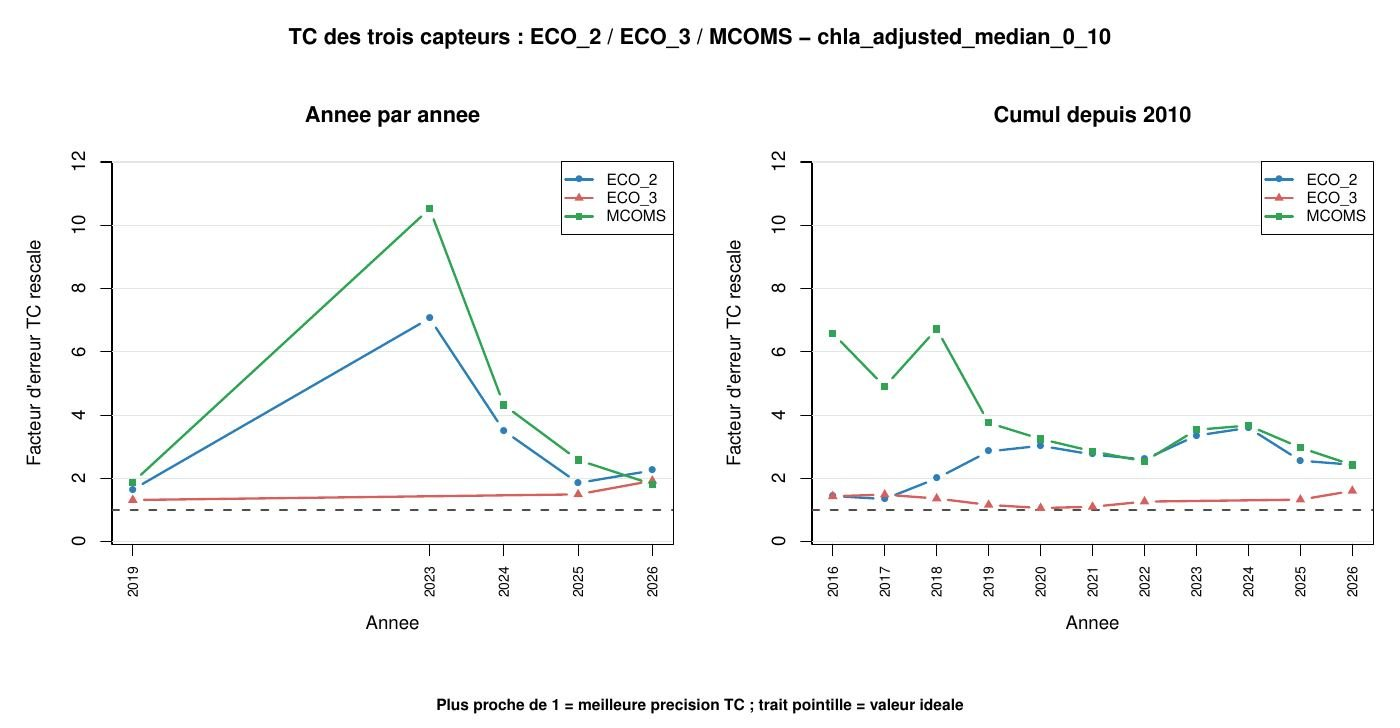
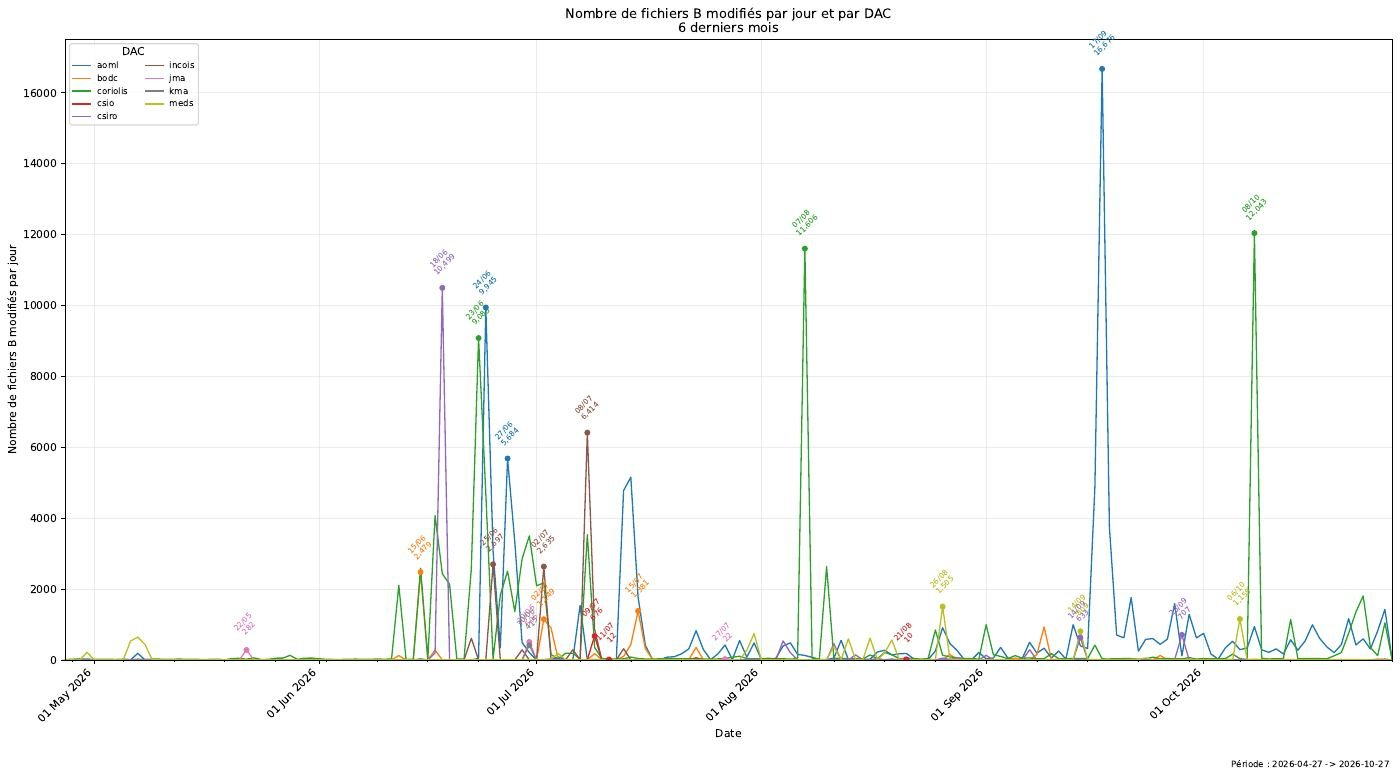
Sépare les trois études de Métrique V2 dans la page des projets
Suivi de la base, CHLA face à OC5 et BBP700 face à SOCA ont maintenant
chacune leur section, avec leurs figures du 27 octobre, leurs chiffres
et un graphique tiré de la synthèse du fichier métrique : profils par
famille de capteur CHLA et profils BBP700 par mode de données.

Claude-Session: https://claude.ai/code/session_01E8CWNMVsvwy1KFHLaAn6PK

diff --git a/projets/index.html b/projets/index.html
@@ -226,7 +226,7 @@ dialog#visio::backdrop { background: rgba(8, 18, 18, 0.72); }
 <header class="tete">
   <p class="surtitre">VM oao2022 · Mac · GitHub antoine250</p>
   <h1>Projets BGC-Argo</h1>
-  <p class="chapo">Neuf études sur les capteurs bio-optiques des flotteurs BGC-Argo et du profileur CIDRE : chlorophylle, rétrodiffusion à 700 nm, lumière. <strong>1&#8239;189 pages de graphiques</strong> en tout ; chaque projet montre ses figures principales et renvoie vers sa page complète. État au 27 octobre 2026.</p>
+  <p class="chapo">Onze études sur les capteurs bio-optiques des flotteurs BGC-Argo et du profileur CIDRE : chlorophylle, rétrodiffusion à 700 nm, lumière. <strong>1&#8239;189 pages de graphiques</strong> en tout ; chaque projet montre ses figures principales et renvoie vers sa page complète. État au 27 octobre 2026.</p>
 </header>
 
 <section aria-labelledby="titre-etat">
@@ -244,9 +244,19 @@ dialog#visio::backdrop { background: rgba(8, 18, 18, 0.72); }
       <div class="l-meta"><span>VM</span><span class="nb">22 graphiques</span><span>21 oct. 2026</span></div>
     </li>
     <li class="ligne">
-      <div class="l-titre"><a href="#metrique">Étude métrique V2</a><span class="mesure">Suivi de la base, CHLA et BBP700 par capteur</span></div>
+      <div class="l-titre"><a href="#metrique">Étude métrique V2</a><span class="mesure">Fichier métrique quotidien et suivi de la base</span></div>
       <span class="etat ok">Actif</span>
-      <div class="l-meta"><span>VM · GitHub</span><span class="nb">509 pages</span><span>27 oct. 2026</span></div>
+      <div class="l-meta"><span>VM · GitHub</span><span class="nb">62 pages</span><span>27 oct. 2026</span></div>
+    </li>
+    <li class="ligne">
+      <div class="l-titre"><a href="#metrique-chla">CHLA face à OC5</a><span class="mesure">Métrique V2 · ECO_2, ECO_3 et MCOMS contre le satellite</span></div>
+      <span class="etat nouveau">Nouveau</span>
+      <div class="l-meta"><span>VM</span><span class="nb">154 pages</span><span>27 oct. 2026</span></div>
+    </li>
+    <li class="ligne">
+      <div class="l-titre"><a href="#metrique-bbp">BBP700 face à SOCA</a><span class="mesure">Métrique V2 · FLBB, triplets et MCOMS contre la climatologie</span></div>
+      <span class="etat nouveau">Nouveau</span>
+      <div class="l-meta"><span>VM</span><span class="nb">293 pages</span><span>27 oct. 2026</span></div>
     </li>
     <li class="ligne">
       <div class="l-titre"><a href="#oc5">CHLA / OC5 jour – nuit</a><span class="mesure">Flotteur contre satellite</span></div>
@@ -283,7 +293,7 @@ dialog#visio::backdrop { background: rgba(8, 18, 18, 0.72); }
   </ul>
   <p class="legende-etat">
     <span class="etat ok">Actif : session Claude ouverte sur la VM</span>
-    <span class="etat nouveau">Nouveau : apparu depuis la mise à jour précédente</span>
+    <span class="etat nouveau">Nouveau : ajouté à la page cette semaine</span>
     <span class="etat archive">Archivé : session terminée</span>
     <span>Date : dernière mise à jour des graphiques</span>
   </p>
@@ -291,7 +301,7 @@ dialog#visio::backdrop { background: rgba(8, 18, 18, 0.72); }
 
 <section class="groupe" aria-labelledby="g-vm">
   <h2 id="g-vm">Sur la VM oao2022</h2>
-  <p>Six projets sur le serveur, chacun avec ses pages de graphiques.</p>
+  <p>Huit projets sur le serveur, chacun avec ses pages de graphiques. Trois d'entre eux lisent le fichier métrique V2 produit chaque nuit.</p>
 
   <article class="projet" id="chla435" data-galerie="https://claude.ai/artifact/VeyUFmpXRrTi1sqrMFvcbu">
     <div class="p-texte">
@@ -362,44 +372,116 @@ dialog#visio::backdrop { background: rgba(8, 18, 18, 0.72); }
     </div>
   </article>
 
-  <article class="projet" id="metrique" data-galerie="https://claude.ai/artifact/CQou6hnrZ72suKwQXZ53zz">
+  <article class="projet" id="metrique" data-galerie="https://claude.ai/artifact/Fh22XT616xihE1MCWTW6Rv">
     <div class="p-texte">
       <p class="p-tags"><span class="etat ok">Actif</span><span class="ou">VM oao2022 · GitHub</span></p>
-      <h3>Étude métrique V2<span class="mesure">Le fichier métrique quotidien et les trois études qui le lisent</span></h3>
-      <p class="p-desc">Chaque nuit, l'étude produit un fichier de métriques sur tous les profils BGC-Argo (<code>/data3/ETUDE_METRIQUE_V2</code>). Depuis le 26 octobre, trois études le lisent, chacune avec sa page de graphiques : le suivi quotidien de la base (fichiers B modifiés par DAC, évolution des paramètres, CHLA intégrée 0-150 m) ; la CHLA des ECO_2, ECO_3 et MCOMS face au satellite OC5, avec triple collocation ; le BBP700 des FLBB, triplets et MCOMS face à la climatologie SOCA, en surface et à 900-950 m.</p>
+      <h3>Étude métrique V2<span class="mesure">Le fichier métrique quotidien et le suivi de la base</span></h3>
+      <p class="p-desc">Chaque nuit, l'étude produit un fichier de métriques sur tous les profils BGC-Argo (<code>/data3/ETUDE_METRIQUE_V2</code>) : CHLA, fluorescence, BBP700 et matchups satellite. Le suivi de la base le lit pour montrer les fichiers B modifiés par DAC, l'évolution de chaque paramètre jour après jour et la CHLA intégrée 0-150 m. Deux autres études le lisent aussi : CHLA face à OC5 et BBP700 face à SOCA, juste en dessous.</p>
       <dl class="chiffres">
         <div><dt>Profils, fichier du 27 oct.</dt><dd>191&#8239;768</dd></div>
         <div><dt>Flotteurs</dt><dd>1&#8239;522</dd></div>
-        <div><dt>Profils avec une CHLA OC5</dt><dd>159&#8239;589</dd></div>
-        <div><dt>Graphiques</dt><dd>26 <small>509 pages</small></dd></div>
+        <div><dt>Fichiers quotidiens</dt><dd>136</dd></div>
+        <div><dt>Nouveaux profils le 27 oct.</dt><dd>83</dd></div>
       </dl>
       <div class="graphe" id="g-metrique">
         <h4>Profils dans le fichier métrique quotidien</h4>
         <p class="sous">136 fichiers, du 28 mai au 27 octobre 2026 ; les segments droits couvrent les jours sans fichier.</p>
         <div class="dessin"></div>
       </div>
-      <p class="p-note">Le 27 octobre, le nombre de profils avec une CHLA OC5 est passé de 143&#8239;500 à 159&#8239;589.</p>
       <div class="liens">
-        <a class="bouton principal" href="https://claude.ai/artifact/5mcDQY8bPgqWs46afYyF8H" target="_blank" rel="noopener">Synthèse du fichier</a>
-        <a class="bouton" href="https://claude.ai/artifact/Fh22XT616xihE1MCWTW6Rv" target="_blank" rel="noopener">Suivi de la base · 62 p.</a>
-        <a class="bouton" href="https://claude.ai/artifact/PJrDCLZt8fciG6NTXHJxTx" target="_blank" rel="noopener">CHLA / OC5 · 154 p.</a>
-        <a class="bouton" href="https://claude.ai/artifact/QRzdbm9R412nJHgWJRAEhP" target="_blank" rel="noopener">BBP700 / SOCA · 293 p.</a>
+        <a class="bouton principal" href="https://claude.ai/artifact/Fh22XT616xihE1MCWTW6Rv" target="_blank" rel="noopener">Suivi de la base · 62 p.</a>
+        <a class="bouton" href="https://claude.ai/artifact/5mcDQY8bPgqWs46afYyF8H" target="_blank" rel="noopener">Synthèse du fichier</a>
+        <a class="bouton" href="https://claude.ai/artifact/CQou6hnrZ72suKwQXZ53zz" target="_blank" rel="noopener">Accueil des graphiques</a>
         <a class="bouton" href="https://github.com/antoine250/ETUDE_METRIQUE_V2" target="_blank" rel="noopener">Dépôt GitHub</a>
       </div>
     </div>
     <div class="p-figures">
       <figure>
-        <button class="vignette" type="button" data-note="Facteur d'erreur de chaque capteur (ECO_2, ECO_3, MCOMS), année par année et en cumulé. Plus proche de 1 : meilleure précision ; pointillé : valeur idéale. CSV du 27 octobre 2026."><img src="img/metrique-1.jpg" width="1400" height="728" alt="Triple collocation des trois capteurs de chlorophylle" loading="lazy"></button>
+        <button class="vignette" type="button" data-note="Nombre de fichiers B modifiés par jour et par DAC, sur les 6 mois jusqu'au 27 octobre 2026."><img src="img/metrique-1.jpg" width="1400" height="778" alt="Nombre de fichiers B modifiés par jour et par DAC" loading="lazy"></button>
+        <figcaption><strong>Fichiers B modifiés par jour et par DAC</strong> · 6 mois</figcaption>
+      </figure>
+      <div class="petites">
+        <figure>
+          <button class="vignette" type="button" data-note="Pour chaque paramètre du fichier métrique, variation de la médiane d'un jour à l'autre, du 28 mai au 27 octobre 2026. Bleu : baisse, rouge : hausse ; gris : pas de fichier ce jour-là."><img src="img/metrique-2.jpg" width="1400" height="993" alt="Carte de couleurs de la variation jour par jour de chaque paramètre" loading="lazy"></button>
+          <figcaption>Variation jour par jour des paramètres</figcaption>
+        </figure>
+        <figure>
+          <button class="vignette" type="button" data-note="CHLA (fluorescence) intégrée 0-150 m depuis le 1er juin 2026 : médiane, moyenne et écart entre quartiles, fichier par fichier."><img src="img/metrique-3.jpg" width="1400" height="993" alt="Série temporelle de la CHLA intégrée 0-150 m" loading="lazy"></button>
+          <figcaption>CHLA intégrée 0-150 m depuis juin</figcaption>
+        </figure>
+      </div>
+    </div>
+  </article>
+
+  <article class="projet" id="metrique-chla" data-galerie="https://claude.ai/artifact/PJrDCLZt8fciG6NTXHJxTx">
+    <div class="p-texte">
+      <p class="p-tags"><span class="etat nouveau">Nouveau</span><span class="ou">VM oao2022 · ETUDE_CHLA_OC5</span></p>
+      <h3>CHLA face à OC5<span class="mesure">Étude métrique V2 : les trois familles de capteurs face au satellite</span></h3>
+      <p class="p-desc">Compare la CHLA des ECO_2, ECO_3 et MCOMS à la chlorophylle satellite OC5 : boîtes de 10° × 10° communes aux trois capteurs, deux fichiers (1er juin et 27 octobre) sur les mêmes échelles, CHLA de surface, et triple collocation pour estimer l'erreur de chaque capteur, année par année et en cumulé.</p>
+      <dl class="chiffres">
+        <div><dt>Profils avec une CHLA OC5</dt><dd>159&#8239;589</dd></div>
+        <div><dt>Matchups de surface</dt><dd>117&#8239;597</dd></div>
+        <div><dt>Graphiques</dt><dd>7 <small>154 pages</small></dd></div>
+        <div><dt>Données</dt><dd>27 oct. <small>2026</small></dd></div>
+      </dl>
+      <div class="graphe" id="g-metrique-chla">
+        <h4>Profils par famille de capteur CHLA</h4>
+        <p class="sous">Fichier métrique du 27 octobre 2026, d'après le modèle de capteur de chaque profil.</p>
+        <div class="dessin"></div>
+      </div>
+      <p class="p-note">Le 27 octobre, le nombre de profils avec une CHLA OC5 est passé de 143&#8239;500 à 159&#8239;589.</p>
+      <div class="liens"><a class="bouton principal" href="https://claude.ai/artifact/PJrDCLZt8fciG6NTXHJxTx" target="_blank" rel="noopener">Ouvrir les 154 pages</a></div>
+    </div>
+    <div class="p-figures">
+      <figure>
+        <button class="vignette" type="button" data-note="Facteur d'erreur de chaque capteur (ECO_2, ECO_3, MCOMS), année par année et en cumulé. Plus proche de 1 : meilleure précision ; pointillé : valeur idéale. CSV du 27 octobre 2026."><img src="img/chlaoc5-1.jpg" width="1400" height="728" alt="Triple collocation des trois capteurs de chlorophylle" loading="lazy"></button>
         <figcaption><strong>Triple collocation ECO_2 / ECO_3 / MCOMS</strong></figcaption>
       </figure>
       <div class="petites">
         <figure>
-          <button class="vignette" type="button" data-note="Nombre de fichiers B modifiés par jour et par DAC, sur les 6 mois jusqu'au 27 octobre 2026."><img src="img/metrique-2.jpg" width="1400" height="778" alt="Nombre de fichiers B modifiés par jour et par DAC" loading="lazy"></button>
-          <figcaption>Fichiers B modifiés par DAC</figcaption>
+          <button class="vignette" type="button" data-note="CHLA ajustée médiane 0-10 m du flotteur contre la CHLA OC5, tous capteurs : 117&#8239;597 matchups. Tirets : égalité 1:1, échelles logarithmiques."><img src="img/chlaoc5-2.jpg" width="1400" height="1082" alt="Nuage de points CHLA de surface contre OC5" loading="lazy"></button>
+          <figcaption>CHLA de surface contre OC5</figcaption>
         </figure>
         <figure>
-          <button class="vignette" type="button" data-note="Localisation des matchups BBP700 médiane 900-950 m, dans les zones et périodes communes aux FLBB, triplets et MCOMS. CSV du 27 octobre 2026."><img src="img/metrique-3.jpg" width="1400" height="850" alt="Carte des matchups BBP700 entre 900 et 950 m" loading="lazy"></button>
-          <figcaption>Matchups BBP700 à 900-950 m</figcaption>
+          <button class="vignette" type="button" data-note="Distribution de la CHLA et du rapport CHLA / OC5 pour chaque famille de capteur, dans les zones communes aux trois. Ligne pointillée : rapport égal à 1."><img src="img/chlaoc5-3.jpg" width="1400" height="850" alt="Histogrammes de la CHLA et du rapport CHLA sur OC5 par capteur" loading="lazy"></button>
+          <figcaption>Histogrammes par capteur</figcaption>
+        </figure>
+      </div>
+    </div>
+  </article>
+
+  <article class="projet" id="metrique-bbp" data-galerie="https://claude.ai/artifact/QRzdbm9R412nJHgWJRAEhP">
+    <div class="p-texte">
+      <p class="p-tags"><span class="etat nouveau">Nouveau</span><span class="ou">VM oao2022 · ETUDE_BBP700_SOCA</span></p>
+      <h3>BBP700 face à SOCA<span class="mesure">Étude métrique V2 : les trois familles de capteurs face à la climatologie</span></h3>
+      <p class="p-desc">Compare le BBP700 des FLBB, triplets et MCOMS à la climatologie SOCA, boîte par boîte, en surface (0-10 m) et en profondeur (900-950 m). Teste deux corrections d'offset à 900-950 m, suit la dispersion par année de déploiement et de profil, et mesure l'effet de la correction profonde en surface. Le même programme tourne aussi en mode CHLA, avec OC5 comme référence.</p>
+      <dl class="chiffres">
+        <div><dt>Profils avec BBP700 0-10 m</dt><dd>174&#8239;539</dd></div>
+        <div><dt>Profils avec BBP700 900-950 m</dt><dd>161&#8239;151</dd></div>
+        <div><dt>Graphiques</dt><dd>16 <small>293 pages</small></dd></div>
+        <div><dt>Données</dt><dd>27 oct. <small>2026</small></dd></div>
+      </dl>
+      <div class="graphe" id="g-metrique-bbp">
+        <h4>Profils BBP700 par mode de données</h4>
+        <p class="sous">Fichier métrique du 27 octobre 2026. R : temps réel ; A : temps réel ajusté ; D : mode différé.</p>
+        <div class="dessin"></div>
+      </div>
+      <p class="p-note">Depuis le 26 octobre, les caches SOCA BBP sont rangés avec la climatologie, dans <code>/data3/SOCA_BBP_POC_2025/</code>.</p>
+      <div class="liens"><a class="bouton principal" href="https://claude.ai/artifact/QRzdbm9R412nJHgWJRAEhP" target="_blank" rel="noopener">Ouvrir les 293 pages</a></div>
+    </div>
+    <div class="p-figures">
+      <figure>
+        <button class="vignette" type="button" data-note="Localisation des matchups BBP700 médiane 900-950 m, dans les zones et périodes communes aux FLBB, triplets et MCOMS. CSV du 27 octobre 2026."><img src="img/bbp-1.jpg" width="1400" height="850" alt="Carte des matchups BBP700 entre 900 et 950 m" loading="lazy"></button>
+        <figcaption><strong>Matchups BBP700 à 900-950 m</strong> · zones communes aux trois capteurs</figcaption>
+      </figure>
+      <div class="petites">
+        <figure>
+          <button class="vignette" type="button" data-note="Localisation des observations BBP700 médiane 0-10 m, dans les boîtes et périodes communes aux FLBB, triplets et MCOMS."><img src="img/bbp-2.jpg" width="1400" height="850" alt="Carte des observations BBP700 entre 0 et 10 m" loading="lazy"></button>
+          <figcaption>Observations BBP700 à 0-10 m</figcaption>
+        </figure>
+        <figure>
+          <button class="vignette" type="button" data-note="Flotteurs déployés en 2014 : couverture des boîtes, BBP700 brut à 900-950 m et rapport BBP700 / SOCA par capteur. Une page par année de déploiement dans la galerie."><img src="img/bbp-3.jpg" width="1400" height="850" alt="Distributions du BBP700 pour la cohorte de déploiement 2014" loading="lazy"></button>
+          <figcaption>Cohorte de déploiement 2014</figcaption>
         </figure>
       </div>
     </div>
@@ -894,6 +976,40 @@ dialog#visio::backdrop { background: rgba(8, 18, 18, 0.72); }
     bulle: function (p) { return [fr(p.v, 0) + " profils", "Fichier du " + dateFr(p.t) + " · " + fr(p.flotteurs, 0) + " flotteurs"]; }
   });
   tableau(gM, ["Fichier", "Profils", "Flotteurs"], HISTO.map(function (r) { return [r[0], fr(r[1], 0), fr(r[2], 0)]; }));
+
+  // CHLA face à OC5 : profils par famille de capteur CHLA (fichier métrique du 27 octobre 2026)
+  var FAMILLES = [
+    ["ECO FLBB", "ECO_2", 93548, "FLBB_AP2, FLBB, FLBB2, FLBB_2K, FLBBFL, FLBBFL_AP2"],
+    ["ECO triplet", "ECO_3", 66402, "FLBBCD, FLBBCD_AP2"],
+    ["MCOMS", "", 27696, "MCOMS_FLBBCD, MCOMS_FLBB2"],
+    ["Inconnu", "", 2565, "modèle non renseigné"],
+    ["ECO FLNTU", "", 1557, "FLNTU"]
+  ];
+  var gMC = document.getElementById("g-metrique-chla");
+  barres(gMC.querySelector(".dessin"), {
+    titre: "Profils par famille de capteur CHLA",
+    lignes: FAMILLES.map(function (f) { return { nom: f[0], sous: f[1] }; }),
+    series: [{ nom: "Profils", couleur: jeton("--accent") }],
+    valeurs: FAMILLES.map(function (f) { return [f[2]]; }),
+    max: 100000, pas: 25000,
+    format: function (v, axe) { return axe ? (v ? fr(v / 1000, 0) + " k" : "0") : fr(v, 0); },
+    bulle: function (i) { return [fr(FAMILLES[i][2], 0) + " profils", FAMILLES[i][0] + " · " + FAMILLES[i][3]]; }
+  });
+  tableau(gMC, ["Famille", "Profils", "Modèles"], FAMILLES.map(function (f) { return [f[0], fr(f[2], 0), f[3]]; }));
+
+  // BBP700 face à SOCA : profils par mode de données BBP700 (fichier métrique du 27 octobre 2026)
+  var MODES = [["A", "temps réel ajusté", 156497], ["R", "temps réel", 16930], ["D", "mode différé", 16776], ["Absent", "pas de BBP700", 1565]];
+  var gMB = document.getElementById("g-metrique-bbp");
+  barres(gMB.querySelector(".dessin"), {
+    titre: "Profils BBP700 par mode de données",
+    lignes: MODES.map(function (m) { return { nom: m[0], sous: m[1] }; }),
+    series: [{ nom: "Profils", couleur: jeton("--accent") }],
+    valeurs: MODES.map(function (m) { return [m[2]]; }),
+    max: 175000, pas: 50000,
+    format: function (v, axe) { return axe ? (v ? fr(v / 1000, 0) + " k" : "0") : fr(v, 0); },
+    bulle: function (i) { return [fr(MODES[i][2], 0) + " profils", "Mode " + MODES[i][0] + " · " + MODES[i][1]]; }
+  });
+  tableau(gMB, ["Mode", "Signification", "Profils"], MODES.map(function (m) { return [m[0], m[1], fr(m[2], 0)]; }));
 
   // STAT_RATIOMETRIE : mode et P90 du rapport mesuré / modèle (valeurs brutes, extraction du 27 octobre 2026)
   var CANAUX = [
